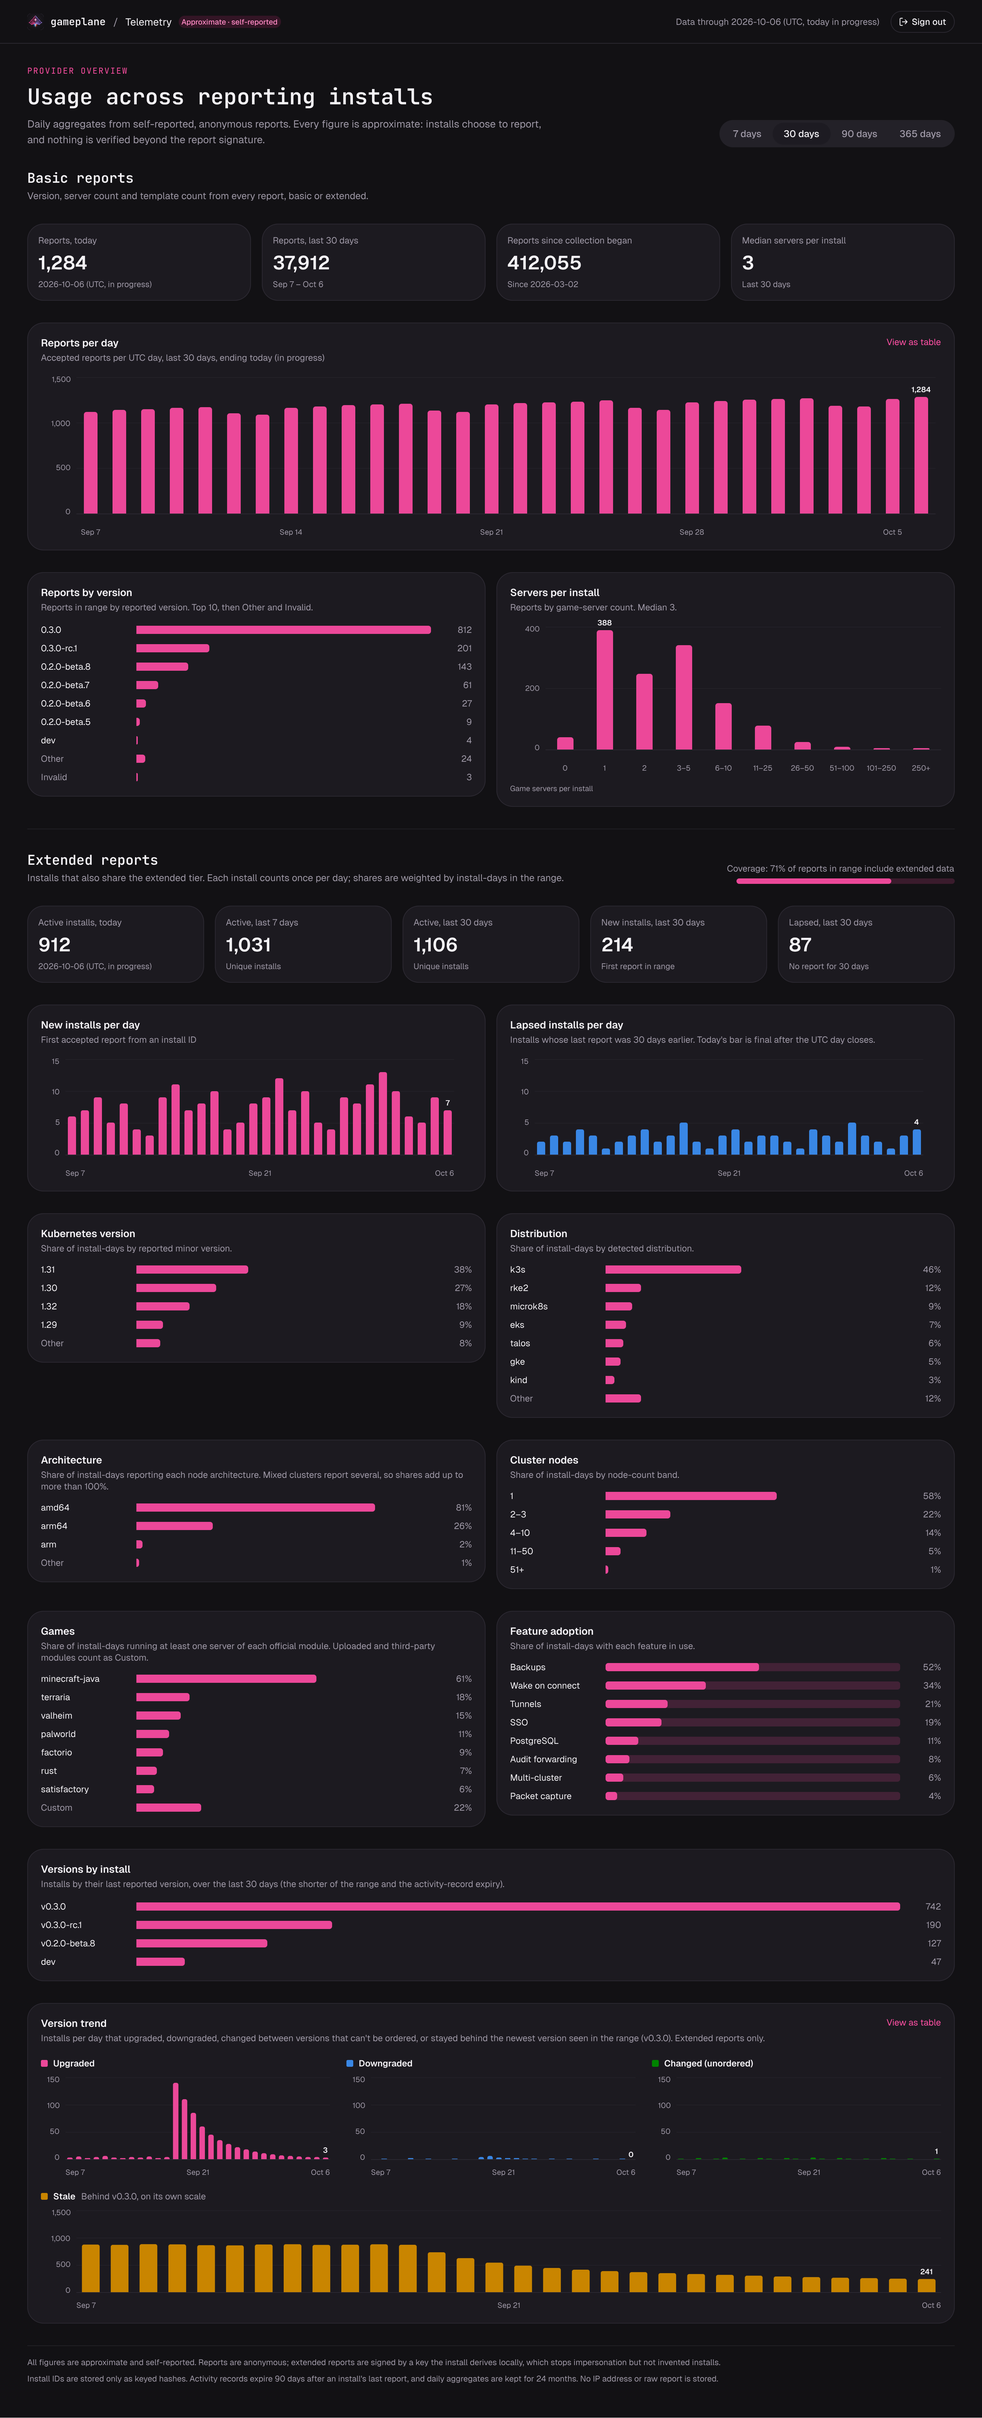
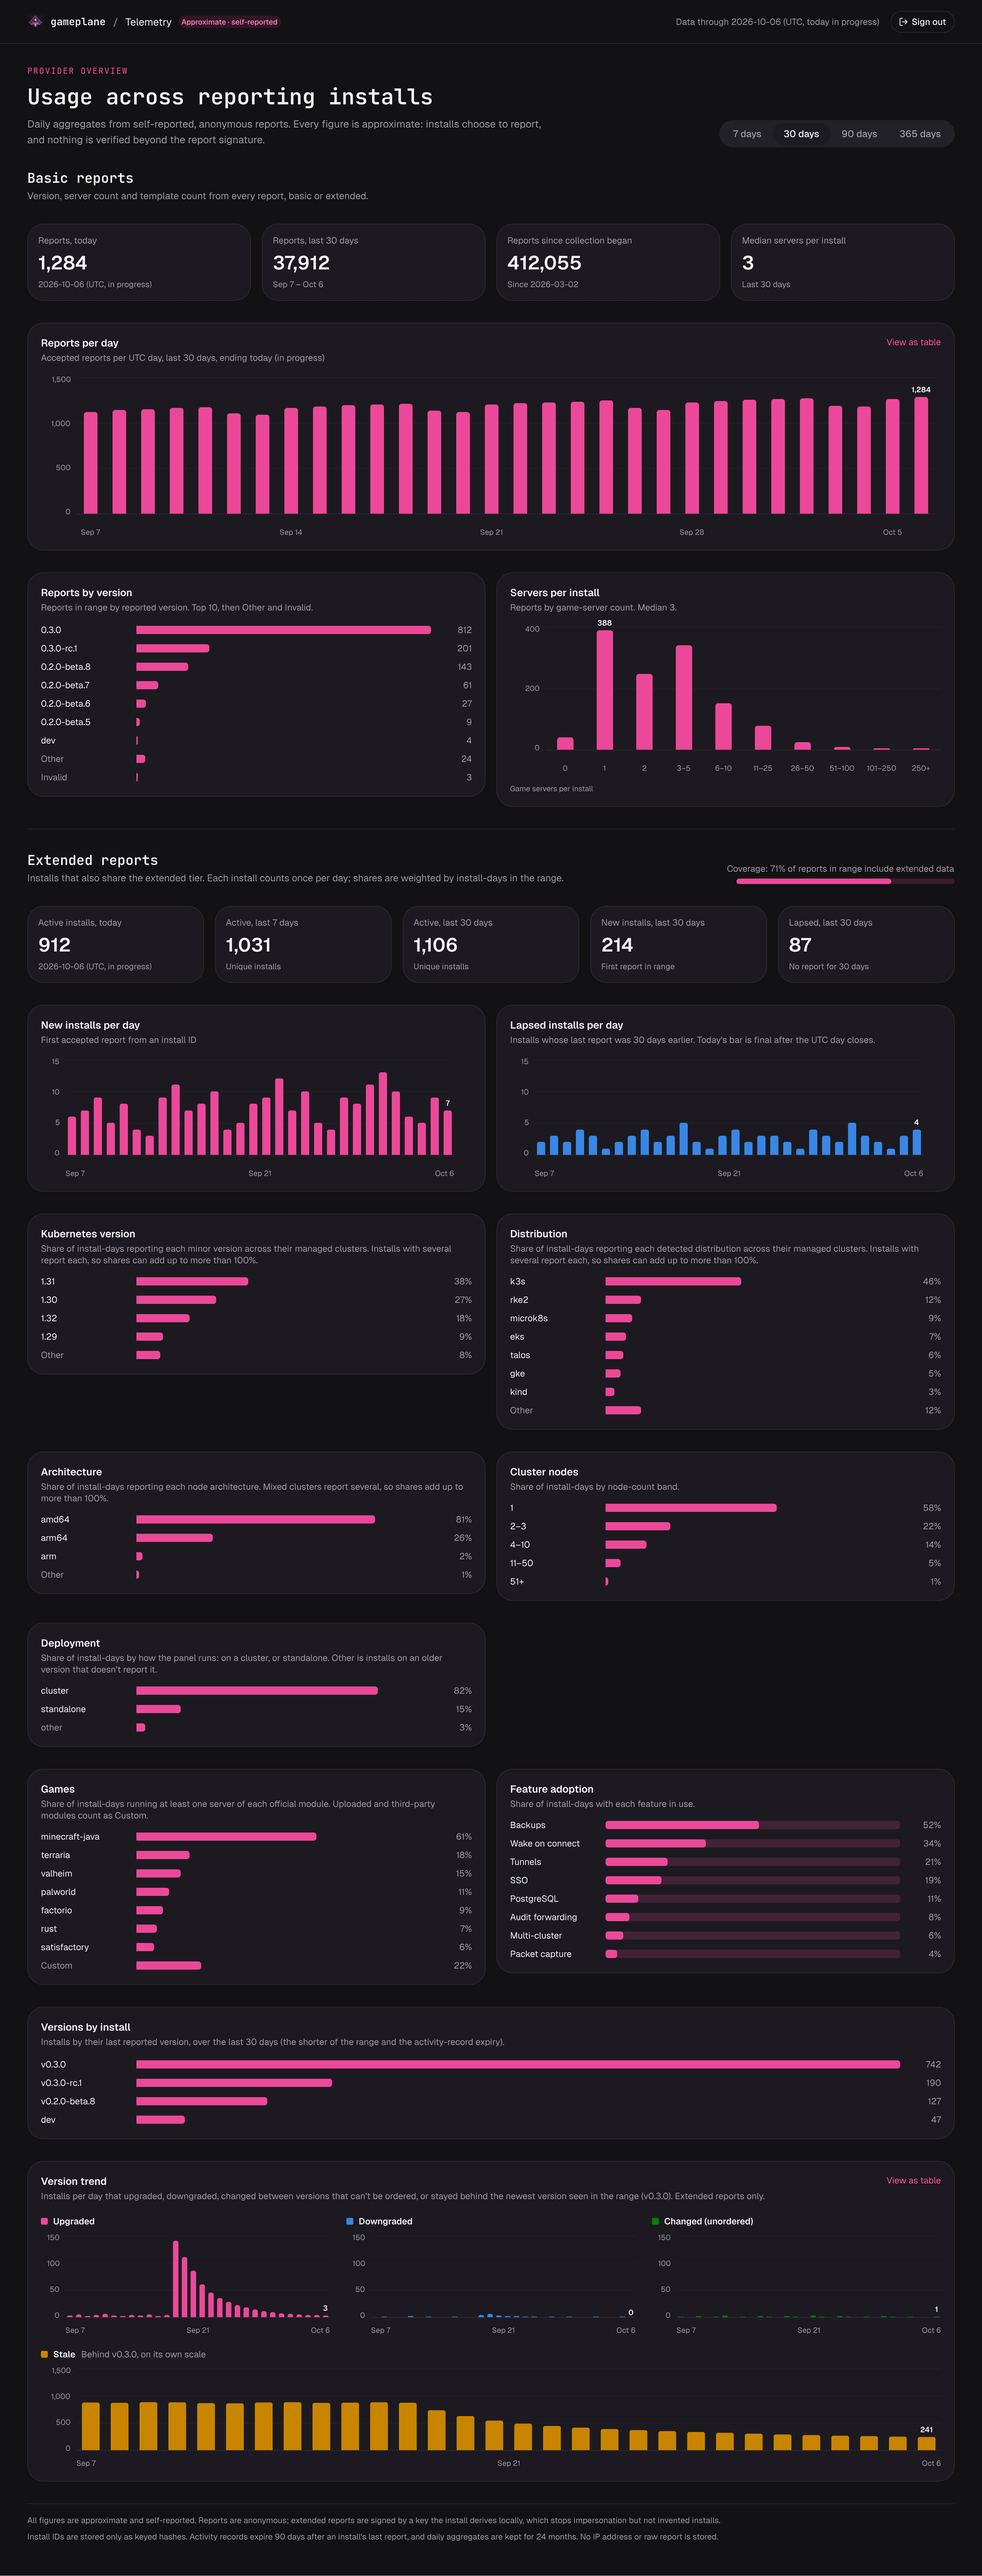
feat(telemetry-receiver): design the deployment card (spec 022 T122)
Add a Deployment share card to the environment breakdowns of the
receiver overview (i0xK1E), in a new two-column row, and reword the
Kubernetes version and Distribution captions for set values (OD-15).
Export i0xK1E with a MANIFEST entry, and tick T122.

diff --git a/telemetry-receiver/design-export/MANIFEST.md b/telemetry-receiver/design-export/MANIFEST.md
@@ -72,3 +72,25 @@ Method:
 - **JSON.** `JSON.stringify(Get("i0xK1E", {depth: 40, includePathGeometry: true}))` was checked equal to the written file: 111,299 UTF-16 code units, FNV-1a 710213898. The file has no `"..."` elisions.
 - **PNG.** `Export(["i0xK1E"], "png", …, {scale: 2})` gives 2880×7091. The frame height is 3545.0000000000005, so the export rounds it up by one pixel.
 - **Content checks.** Each string matched only `i0xK1E.json`: "Behind v0.3.0, on its own scale", "Installs by their last reported version" and "Reports by version".
+
+## Incremental export (2026-10-17): deployment card (spec 022 T122, FR-045, OD-13 to OD-16)
+
+| Node | Change |
+|---|---|
+| `i0xK1E` | New row `ISPZo` "Environment row 3" under the Architecture and Cluster nodes row. Its left column holds card `lAzgJ` "Deployment", a copy of the Architecture card with three `wPbIp` Share row instances (cluster 82%, standalone 15%, other 3%). The right column is an empty grid cell `h5Dkd`, so the environment grid stays in pairs. Caption: "Share of install-days by how the panel runs: on a cluster, or standalone. Other is installs on an older version that doesn't report it." The Kubernetes version and Distribution captions now describe sets (OD-15): "Share of install-days reporting each minor version across their managed clusters. Installs with several report each, so shares can add up to more than 100%." Distribution reads the same with "each detected distribution". |
+
+Design notes:
+
+- **Components.** No new component.
+  - The card keeps the environment card layout and tokens (`$surface/surface`, `$radius/3xl`, `$border`, padding 20, gap 14), and its rows are `wPbIp` instances.
+  - Bar widths follow the file's convention: share × the 432 px track.
+  - The "other" label uses `$foreground/muted`, like the Other rows of the neighbouring cards.
+- **Audit.** The `pen-componentize` audit found no detached copies, replaced instances or repeated structures. Its hand-built control findings on `fximY`, `y49Ie` and `jy9Rn` predate this change.
+- **Modes.** The frame stays in dark mode. Light mode was checked by switching the frame's theme for a preview and back.
+- **Narrow layout.** Below 960 px the template's `grid-2` collapses to one column, and the card's SVG scales like its neighbours'.
+
+Method:
+
+- **JSON.** `JSON.stringify(Get("i0xK1E", {depth: 40, includePathGeometry: true}))` was checked equal to the written file: 113,413 UTF-16 code units, FNV-1a 1968389605. The file has no `"..."` elisions.
+- **PNG.** `Export(["i0xK1E"], "png", …, {scale: 2})` gives 2880×7553.
+- **Content checks.** Each string matched only `i0xK1E.json`: "doesn't report it" and "across their managed clusters".

diff --git a/specs/022-default-telemetry-dashboard/tasks.md b/specs/022-default-telemetry-dashboard/tasks.md
@@ -610,7 +610,7 @@ description: "Task list for feature 022: default telemetry destination, extended
 **Independent Test**: SC-018.
 
 - [X] T121 [P] In `telemetryschema/`: raise `SchemaVersion` to `2`, add `Env.Deployment` and the enumeration `Deployments = {"cluster", "standalone"}` in `enums.go`, and make `decodeEnv` require `deployment` on schema 2 and refuse it on schema 1 (unknown key). Schema 1 reports decode with `Deployment` set to `other` (OD-14). In schema 2, `env.k8s` and `env.distro` become non-empty sorted sets like `env.arch` (OD-15), and a schema 1 string decodes as a one-value set; `env.nodes` stays one band (OD-16). Update `telemetryschema/specs.md`.
-- [ ] T122 [US5] Design first, on the local machine where Pencil runs: in `telemetry-receiver/telemetry-dashboard.pen`, add a "Deployment" share card to the environment breakdowns of frame `i0xK1E`, matching the other environment cards. Export it into `telemetry-receiver/design-export/` and commit the export with the design (rules 1, 2).
+- [X] T122 [US5] Design first, on the local machine where Pencil runs: in `telemetry-receiver/telemetry-dashboard.pen`, add a "Deployment" share card to the environment breakdowns of frame `i0xK1E`, matching the other environment cards. Export it into `telemetry-receiver/design-export/` and commit the export with the design (rules 1, 2).
 - [ ] T123 [US5] Receiver, after T121: add `dimDeployment` to the `daily_dim` writes in `ingest_ext.go` and write one row per `k8s` and `distro` value as for `arch`, `Env.Deployment` to `views.go` (`extended.env.deployment`), and after T122 the card in `charts_ext.go` and `web/overview_extended.html`. Update `telemetry-receiver/specs.md` and `README.md`.
 - [X] T124 API, after T121: give `telemetry.Deps` the cluster registry (`api/cmd/main.go:352`), and in `api/internal/telemetry/collect.go` list servers, templates and backup schedules on every cluster in `Registry.IDs()` with a per-cluster timeout, sum them, skip clusters whose list fails (FR-043, FR-044), and set `Env.Deployment` from `IsStandalone()` (FR-045). Read the server version and nodes of every reachable cluster: `k8s` and `distro` as sets, `arch` as the union (OD-15), `nodes` as one band over their total node count (OD-16). Bump `extSchema` to `2`.
 - [ ] T125 [P] Add `env.deployment` to `noticeExtendedFields` in `api/internal/handlers/telemetry.go`, to the `env` type in `web/src/lib/api.ts`, and to the extended field list in `docs/` and the website data-handling statement (submodule PR flow, then a pointer bump).
